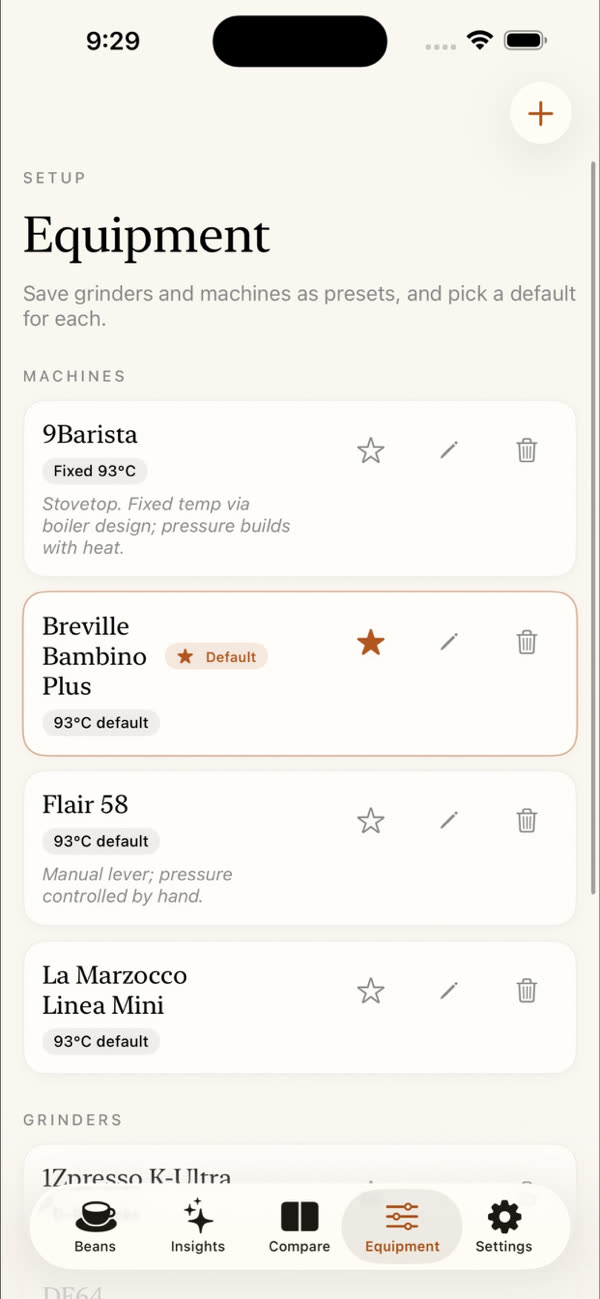
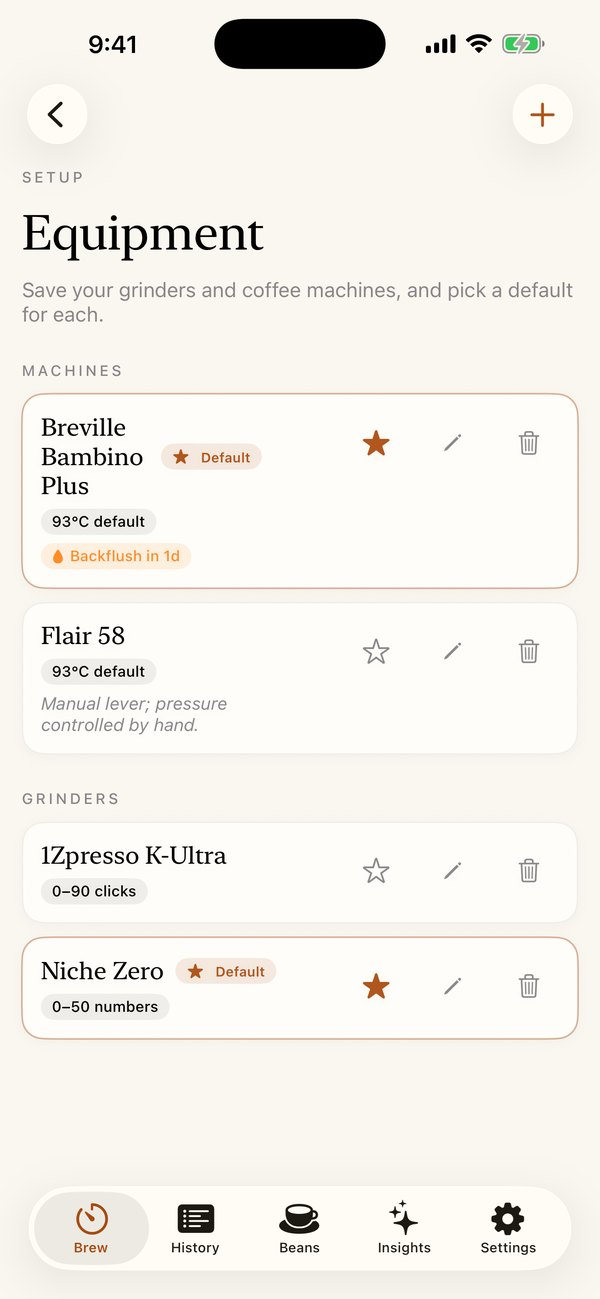
1.8 promo page: new Quick log, Insights and Equipment screenshots

diff --git a/index.html b/index.html
@@ -161,7 +161,7 @@
       <div class="feature-card phone-left reveal">
         <div class="phone tilt-r phone-scroll-tilt">
           <div class="phone-screen">
-            <img src="./assets/screens/insights_store.jpg" alt="Crema Insights screen with 6-day streak, patterns, and the highest-rated shot for Ethiopia Yirgacheffe" loading="lazy">
+            <img src="./assets/screens/insights_store.jpg" alt="Crema Insights screen with a 9-day streak, patterns, and the highest-rated shot for Ethiopia Yirgacheffe" loading="lazy">
           </div>
         </div>
       </div>
@@ -408,7 +408,7 @@
     <div class="reveal">
       <div class="phone tilt phone-scroll-tilt phone-bigger">
         <div class="phone-screen">
-          <img src="./assets/screens/equipment_store.jpg" alt="Crema Equipment screen listing 9Barista, Breville Bambino Plus, Flair 58, and La Marzocco Linea Mini" loading="lazy">
+          <img src="./assets/screens/equipment_store.jpg" alt="Crema Equipment screen listing the Breville Bambino Plus and Flair 58 machines and the Niche Zero and 1Zpresso K-Ultra grinders" loading="lazy">
         </div>
       </div>
     </div>
